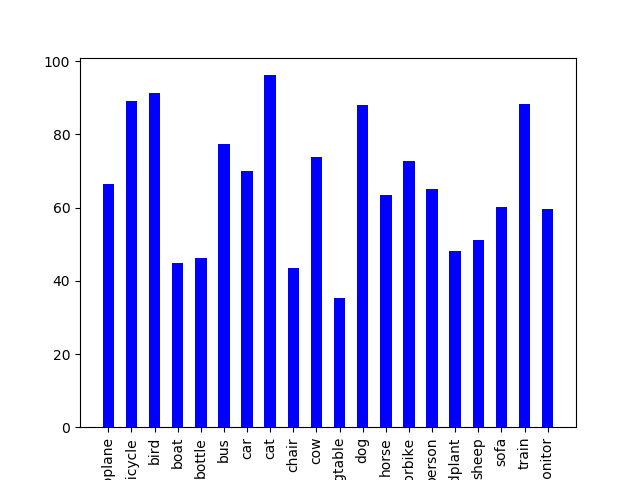
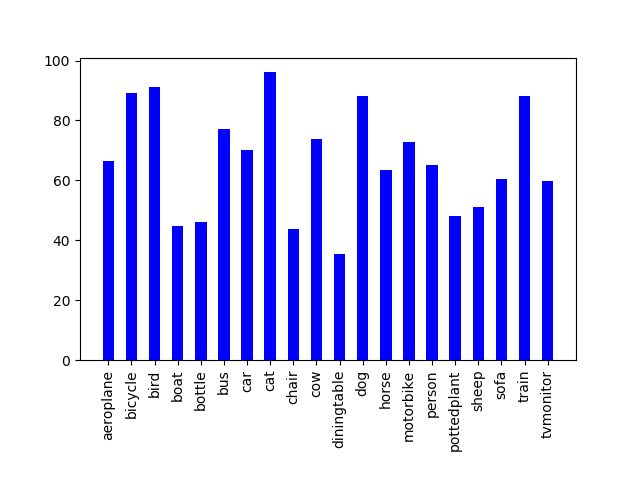
changes

diff --git a/visualization/visualize.py b/visualization/visualize.py
@@ -5,6 +5,7 @@ import os
 
 def save_charts():
     plt.xticks(rotation=90)
+    plt.gcf().subplots_adjust(bottom=0.25)
     file_list = os.listdir('outputs/')
     for processed_file in file_list:
         output_image = 'charts/' + processed_file.replace('_output.txt', '') + "_bar.png"
@@ -12,10 +13,21 @@ def save_charts():
         ax = plt.subplot(111)
         ax.bar(df['class_name'], df['mAP'], width=0.5, color='b', align='center')
 
-
         # plt.show()
         # plt.figure(figsize=(8, 4))
         plt.savefig(output_image)
+
+
+def save_charts_single(processed_output, x_label, y_label):
+    plt.xticks(rotation=90)
+    plt.gcf().subplots_adjust(bottom=0.25)
+    plt.xlabel(x_label)
+    plt.ylabel(y_label)
+    output_image = 'charts/' + processed_output + "_bar.png"
+    df = pd.read_csv('outputs/' + processed_output + ".txt")
+    ax = plt.subplot(111)
+    ax.bar(df['model'], df['overall_map_score'], width=0.5, color='b', align='center')
+    plt.savefig(output_image)
 
 
 def process_files(input_list):
@@ -44,10 +56,18 @@ def read_inputs():
     return input_files
 
 
-if __name__ == '__main__':
+def deal_multiple():
     read_input_list = read_inputs()
     print(read_input_list)
     process_files(read_input_list)
     print('files processed, check output directory')
     save_charts()
     print('finished charts. fuck yoU!')
+
+
+def deal_single():
+    save_charts_single('Summary', 'models', 'mAP Summary')
+
+
+if __name__ == '__main__':
+    deal_single()

diff --git a/visualization/class_level.py b/visualization/class_level.py
@@ -1,0 +1,25 @@
+import pandas as pd
+import matplotlib.pyplot as plt
+import os
+
+
+def save_charts():
+    plt.xticks(rotation=90)
+    plt.gcf().subplots_adjust(bottom=0.25)
+    file_list = os.listdir('classes/')
+    for processed_file in file_list:
+        print(f'processing file {processed_file}')
+        output_image = 'classlevel_charts/' + processed_file.replace('.txt', '') + "_bar.png"
+        df = pd.read_csv('classes/' + processed_file)
+        ax = plt.subplot(111)
+        ax.bar(df['model_name'], df['map_score'], width=0.5, color='y', align='center')
+
+        # plt.show()
+        # plt.figure(figsize=(8, 4))
+        plt.xlabel(processed_file.replace('.txt', ''))
+        plt.ylabel('class level mAP score')
+        plt.savefig(output_image)
+
+
+if __name__ == '__main__':
+    save_charts()

diff --git a/visualization/class_visualization.py b/visualization/class_visualization.py
@@ -1,0 +1,12 @@
+import os
+import pandas as pd
+
+class_level_list = os.listdir('outputs/')
+data_list = [each.replace('_output.txt', '') for each in class_level_list]
+
+for file in class_level_list:
+    data_frame = pd.read_csv('outputs/' + file)
+    for _, row in data_frame.iterrows():
+        with open('classes/' + row.class_name + '.txt', 'a+') as f:
+            f.write(file.replace('_output.txt', '').lower() + ',' + str(row.mAP)+'\n')
+            f.close()
